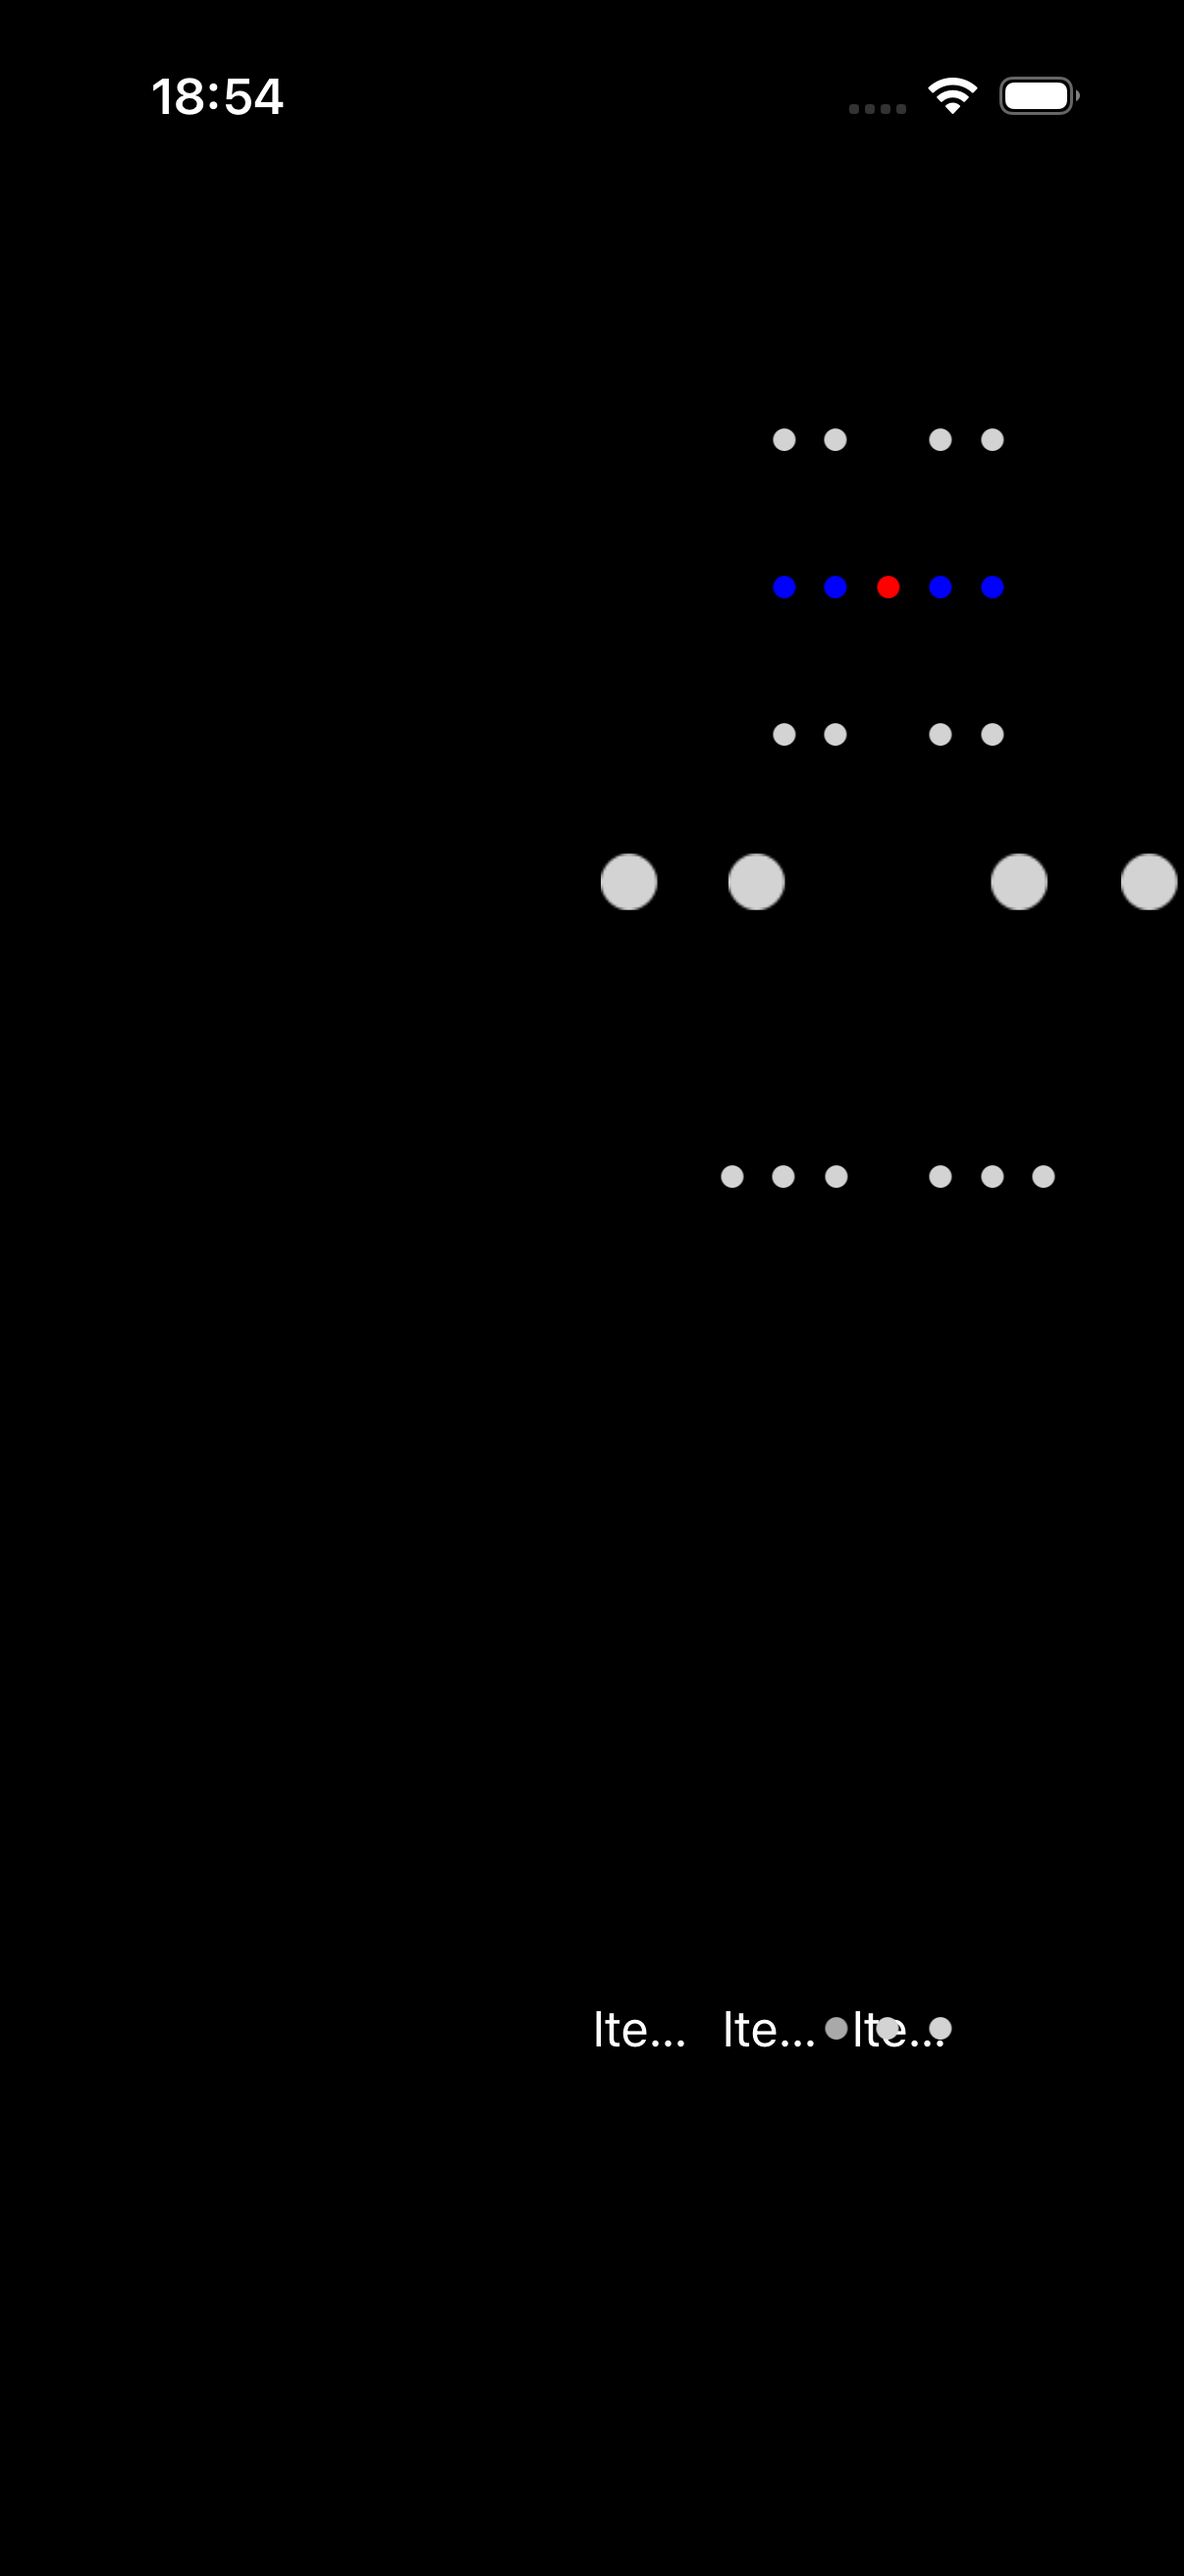
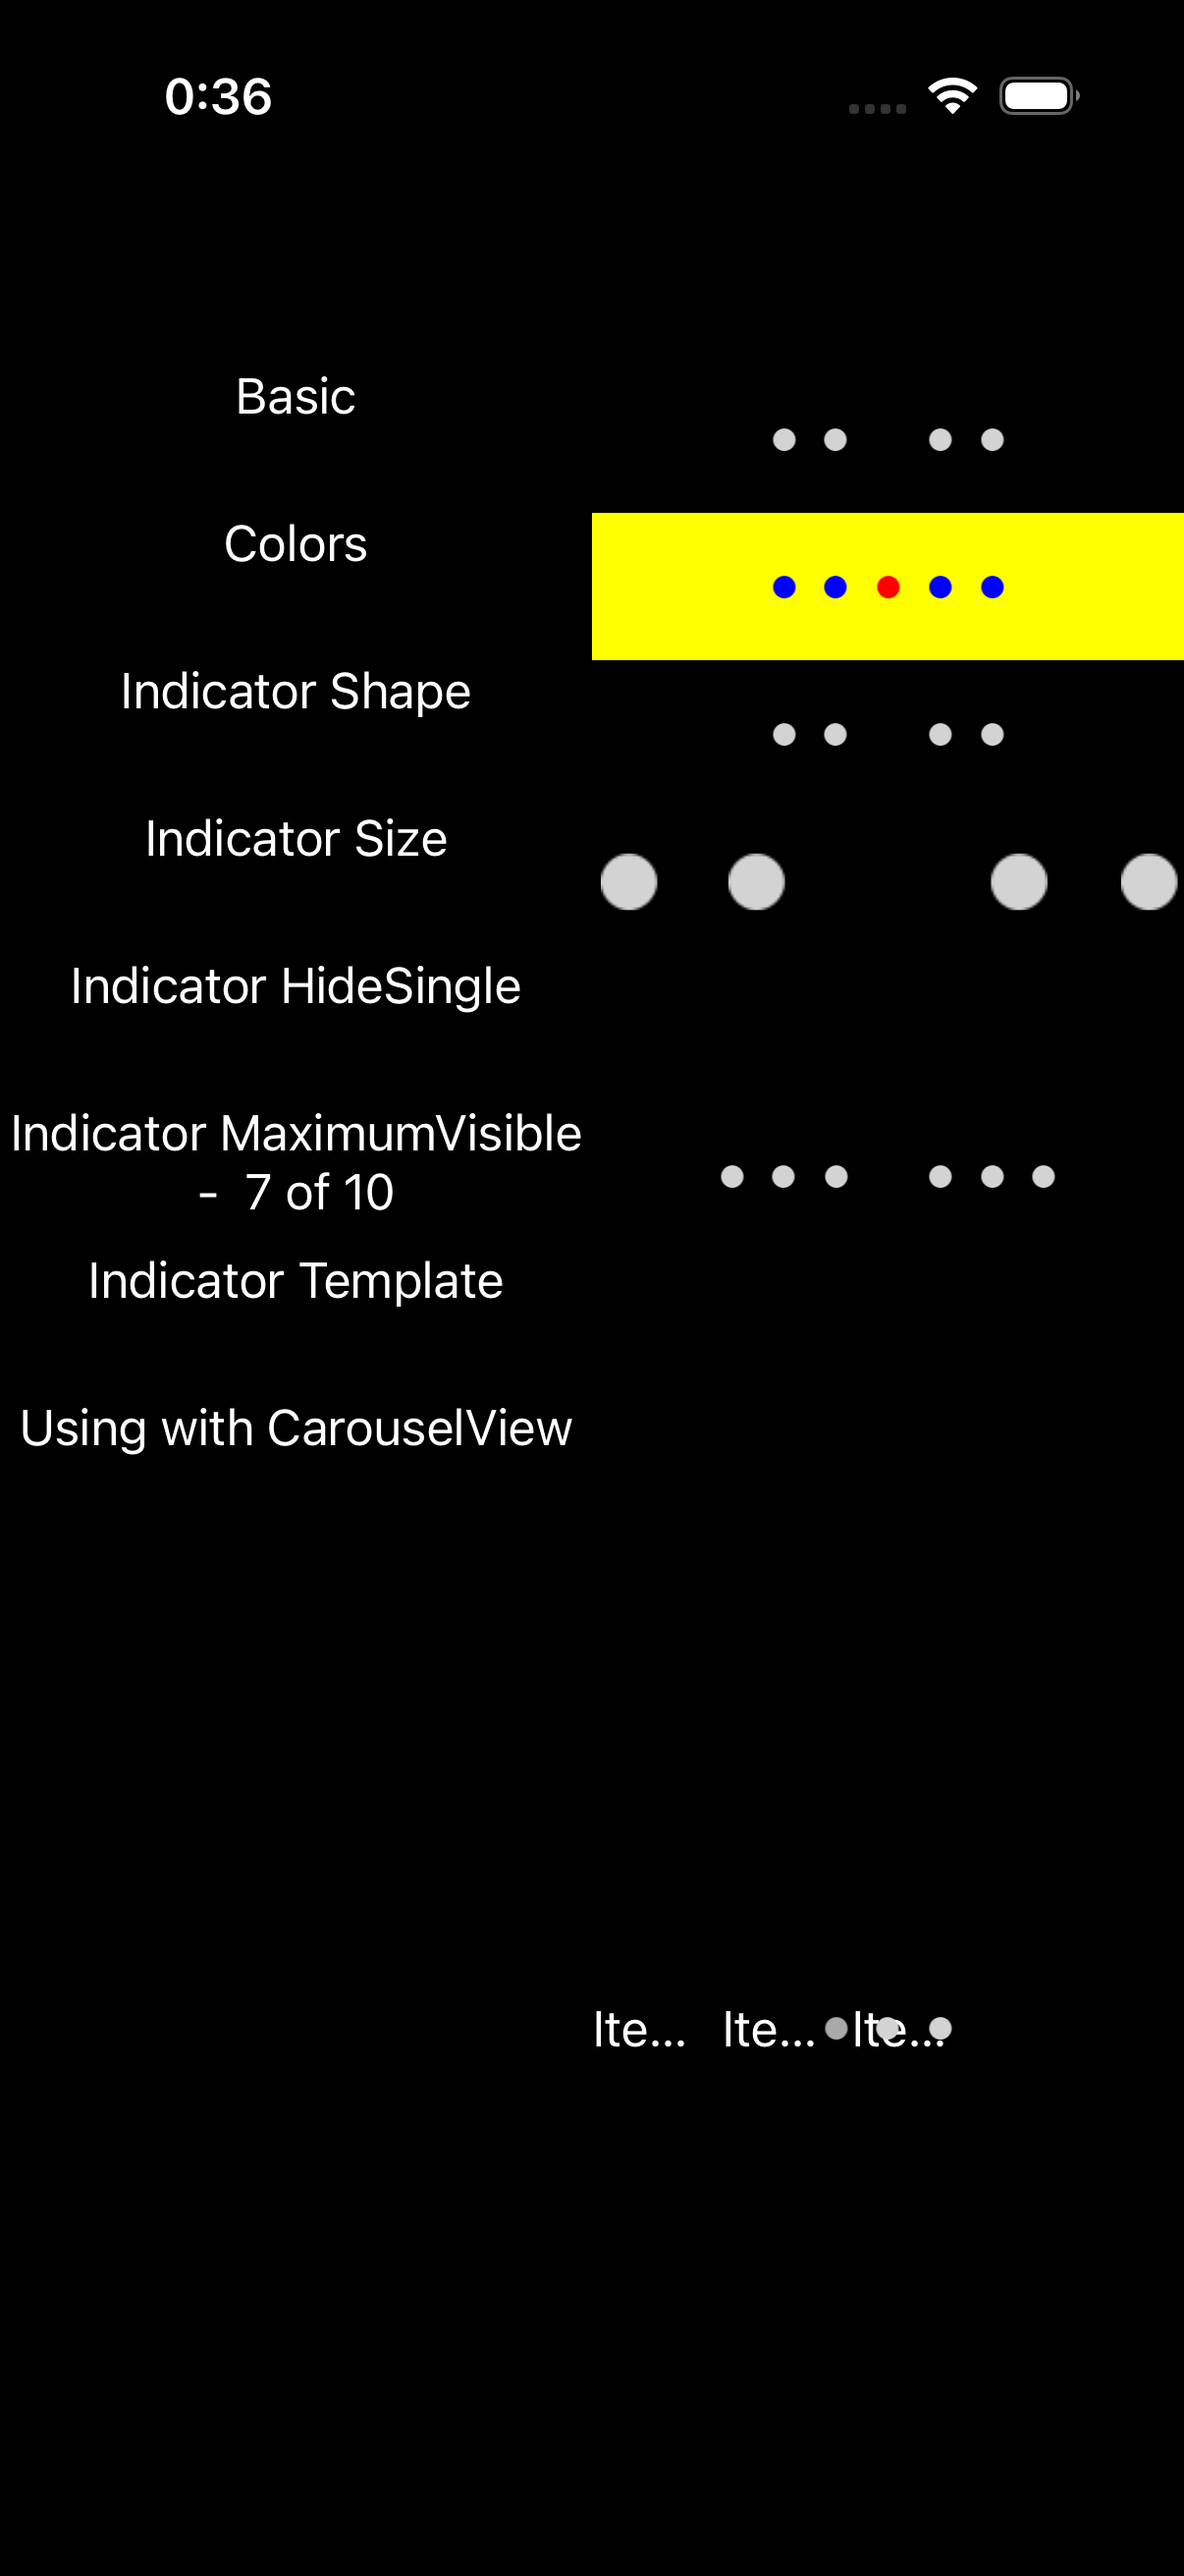
fix(ios,parity): IndicatorView renders BackgroundColor band behind the dots
example 16/172 (indicator): the Colors IndicatorView was missing its BackgroundColor=
Yellow band. The iOS IndicatorView deferred update_background. Added it (same pattern):
a UIPageControl has no bezel, so apply_background paints the band; the existing
MauiPageControl gains a layoutSubviews that re-sizes a gradient/image fill via
resize_background_layers. BackgroundColor=Yellow now renders as a full-width band
with the dots, matching MAUI.

Verified: dots + colored indicators + yellow band render both themes (sim-captured);
25 indicator ios tests pass; clang-tidy 0. Residual: the Indicator Size demo dots
scale larger than the C# shot (real MAUI's UIPageControl dot-resize is a near-noop on
iOS 26). Tracker: indicator pending->minor (16 minor).

diff --git a/port/cpp/src/platform/ios/indicator_view_handler.mm b/port/cpp/src/platform/ios/indicator_view_handler.mm
@@ -19,6 +19,7 @@
 #include <string_view>
 
 #include "ios_conversions.hpp"
+#include "ios_visual_ops.hpp"
 #include "maui/core/i_indicator_view.hpp"
 #include "maui/core/indicator_view_handler.hpp"
 #include "maui/core/visibility.hpp"
@@ -60,6 +61,14 @@
         view->set_position(static_cast<int>(self.currentPage)); // IIndicatorView.Position (FromHandler)
     }
 }
+
+- (void)layoutSubviews
+{
+    [super layoutSubviews];
+    // Keep any gradient/image background sublayer apply_background installed sized to the current bounds
+    // (a solid BackgroundColor needs no resize — it is the backing layer's backgroundColor).
+    maui::platform::ios::resize_background_layers((__bridge void*)self);
+}
 @end
 
 namespace
@@ -98,6 +107,14 @@ namespace maui::core
         const std::string id(value);
         NSString* const raw = [NSString stringWithUTF8String:id.c_str()];
         as_page_control(native).accessibilityIdentifier = raw != nil ? raw : @"";
+    }
+
+    void indicator_view_platform::update_background(const maui::graphics::paint* value)
+    {
+        // BackgroundColor / Background brush fills the band behind the dots (the UIPageControl has no bezel):
+        // the shared helper paints a solid color onto the backing layer or installs a gradient/image
+        // sublayer (MauiPageControl.layoutSubviews keeps it sized). A null paint clears it.
+        maui::platform::ios::apply_background(native, value);
     }
 
     std::unique_ptr<indicator_view_platform> indicator_view_handler::create_platform_view()

diff --git a/port/cpp/include/maui/core/indicator_view_handler.hpp b/port/cpp/include/maui/core/indicator_view_handler.hpp
@@ -74,6 +74,9 @@ namespace maui::core
         void update_visibility(maui::core::visibility value) override;
         void update_opacity(double value) override;
         void update_automation_id(std::string_view value) override;
+        // BackgroundColor / Background brush IS pushed to the UIPageControl — the band behind the dots (the
+        // shared apply_background; MauiPageControl.layoutSubviews keeps a gradient fill sized to bounds).
+        void update_background(const maui::graphics::paint* value) override;
 #endif
     };
 

diff --git a/port/cpp/docs/comparison/README.md b/port/cpp/docs/comparison/README.md
@@ -2,7 +2,7 @@
 
 Theme-matched iOS comparison: each page rendered by **real .NET MAUI** vs the **C++ port**, on the same iPhone 17 simulator, compared **light-vs-light** and **dark-vs-dark**. Both stacks render native-default controls + the system font (the C# app's `dotnet new maui` default `Styles.xaml` + OpenSans are stripped; appearance forced via `MAUI_THEME` / `MAUI_APPEARANCE`). Goal: pixel-perfect parity, fixed example-by-example.
 
-**Progress: 0 / 172 🟢 matched** · 15 🟡 minor · 52 🔴 diff · 105 ⬜ pending
+**Progress: 0 / 172 🟢 matched** · 16 🟡 minor · 52 🔴 diff · 104 ⬜ pending
 
 Status legend: 🟢 pixel-match (both themes) · 🟡 minor diff · 🔴 notable diff to fix · ⬜ not yet reviewed. Per-theme verdicts in `parity_status.json`.
 
@@ -27,7 +27,7 @@ Rows are in **fix order** (top → bottom): foundational single controls first (
 | 13 | Check Box | 🟡<br>L:minor<br>D:minor | ![](csharp_ios_light/check_box.png) | ![](cpp_ios_light/check_box.png) | ![](csharp_ios_dark/check_box.png) | ![](cpp_ios_dark/check_box.png) |
 | 14 | Progress Bar | 🟡<br>L:minor<br>D:minor | ![](csharp_ios_light/progress_bar.png) | ![](cpp_ios_light/progress_bar.png) | ![](csharp_ios_dark/progress_bar.png) | ![](cpp_ios_dark/progress_bar.png) |
 | 15 | Activity Indicator | 🟡<br>L:minor<br>D:minor | ![](csharp_ios_light/activity_indicator.png) | ![](cpp_ios_light/activity_indicator.png) | ![](csharp_ios_dark/activity_indicator.png) | ![](cpp_ios_dark/activity_indicator.png) |
-| 16 | Indicator | ⬜<br>L:pending<br>D:pending | ![](csharp_ios_light/indicator.png) | ![](cpp_ios_light/indicator.png) | ![](csharp_ios_dark/indicator.png) | ![](cpp_ios_dark/indicator.png) |
+| 16 | Indicator | 🟡<br>L:minor<br>D:minor | ![](csharp_ios_light/indicator.png) | ![](cpp_ios_light/indicator.png) | ![](csharp_ios_dark/indicator.png) | ![](cpp_ios_dark/indicator.png) |
 | 17 | Image | ⬜<br>L:pending<br>D:pending | ![](csharp_ios_light/image.png) | ![](cpp_ios_light/image.png) | ![](csharp_ios_dark/image.png) | ![](cpp_ios_dark/image.png) |
 | 18 | Image Button | ⬜<br>L:pending<br>D:pending | ![](csharp_ios_light/image_button.png) | ![](cpp_ios_light/image_button.png) | ![](csharp_ios_dark/image_button.png) | ![](cpp_ios_dark/image_button.png) |
 | 19 | Box View | 🔴<br>L:minor<br>D:diff | ![](csharp_ios_light/box_view.png) | ![](cpp_ios_light/box_view.png) | ![](csharp_ios_dark/box_view.png) | ![](cpp_ios_dark/box_view.png) |
